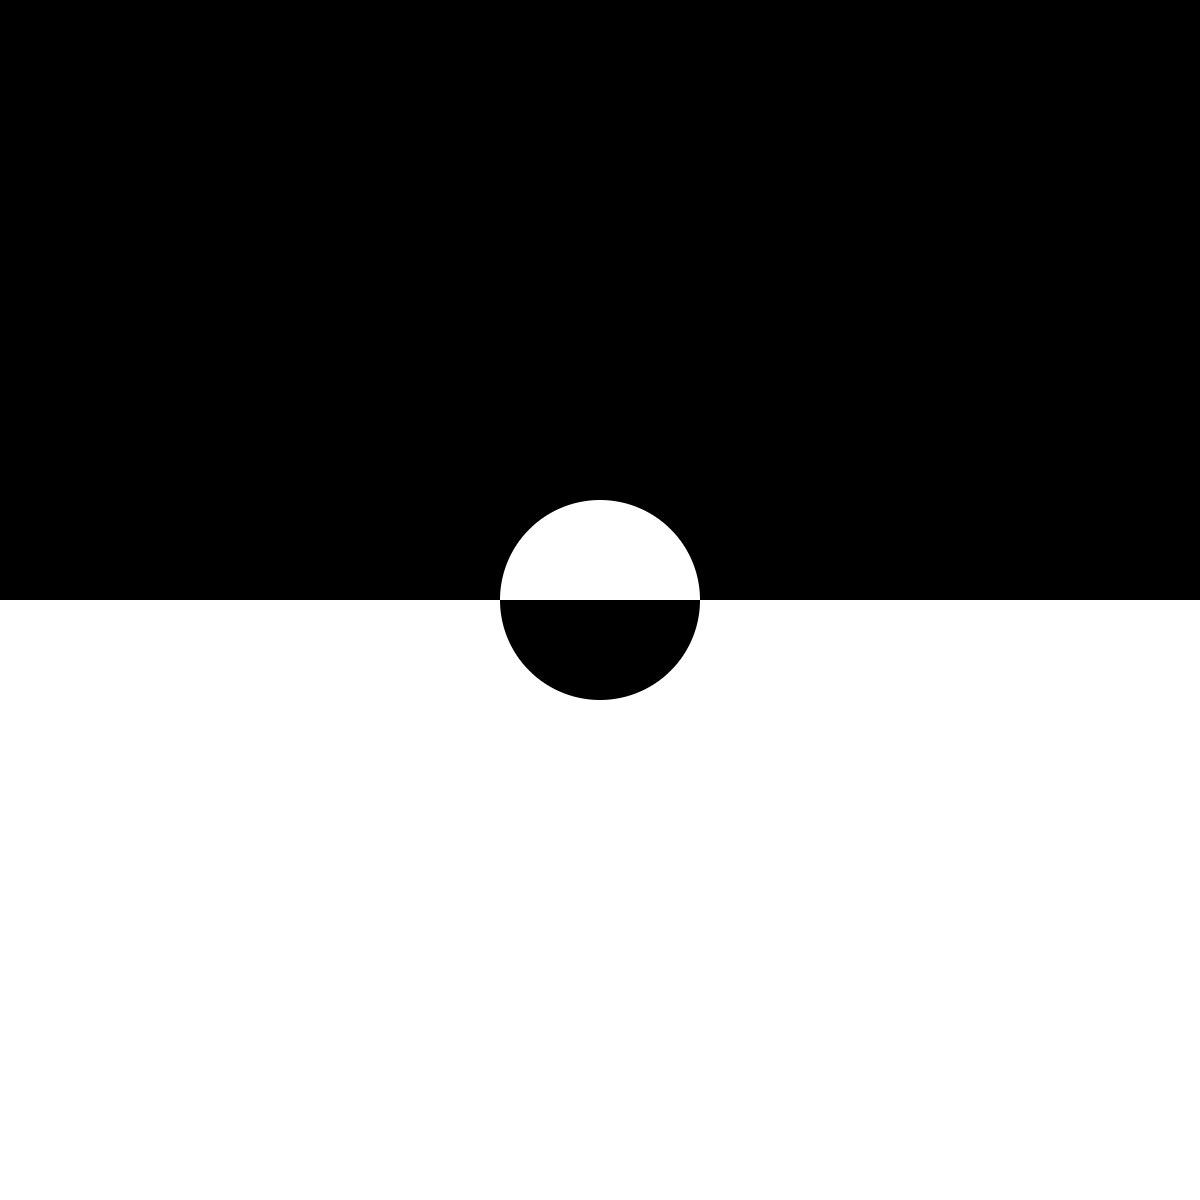
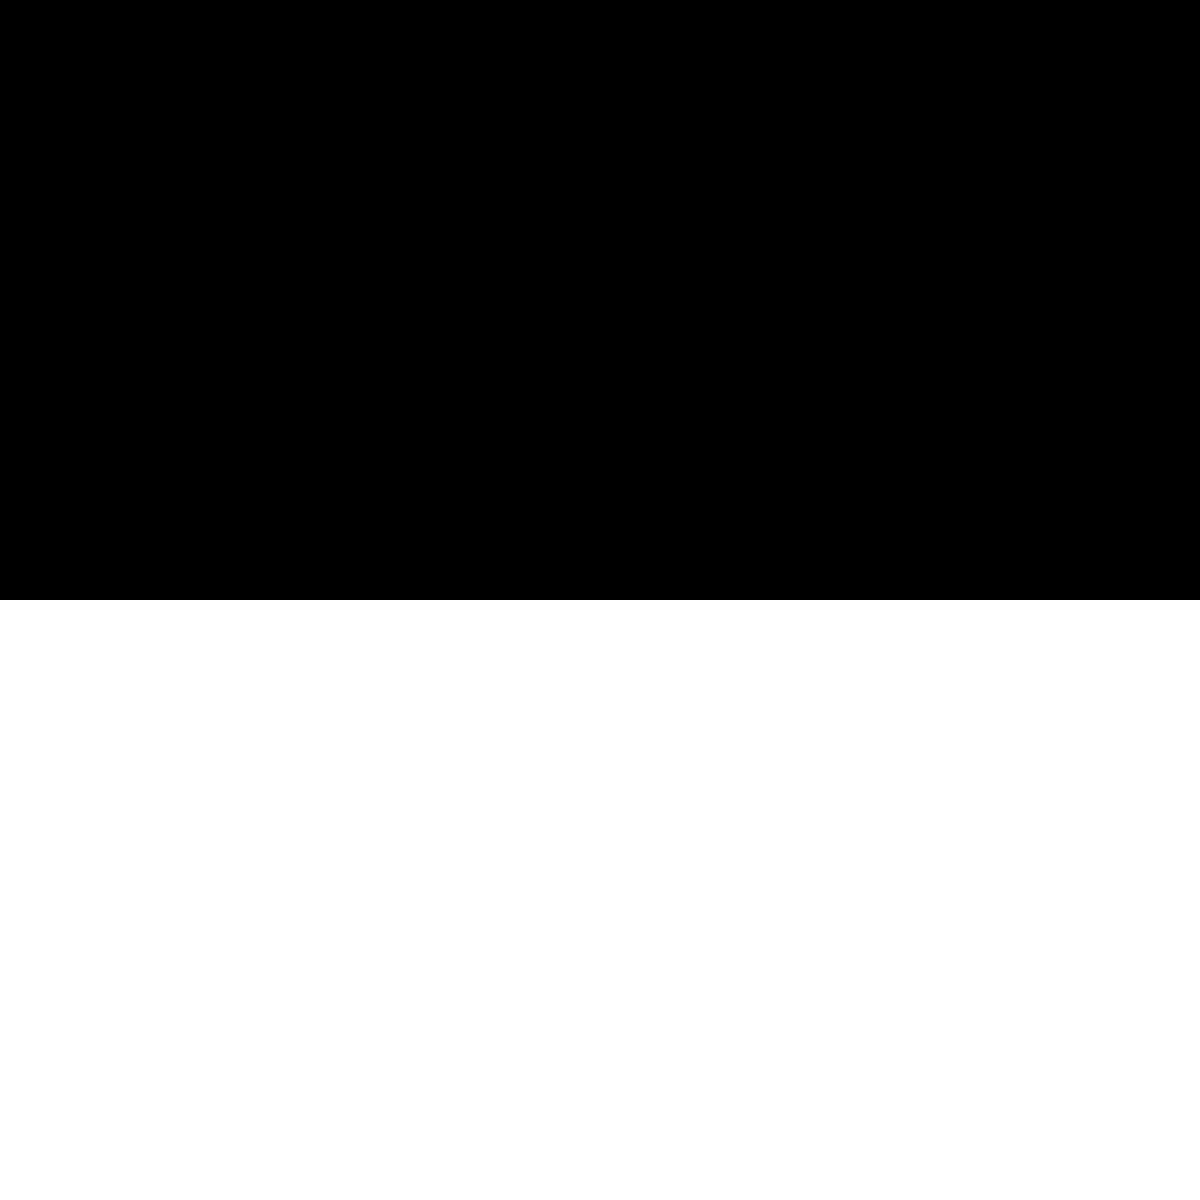
Adding ball.png, split the background and player's ball sprite. Further hit detect function needed.

Changed region(s): [[0.4008, 0.4008, 0.5858, 0.5858]]

diff --git a/script.js b/script.js
@@ -7,6 +7,7 @@ var game = new Phaser.Game(800, 800, Phaser.AUTO, '', { preload: preload, create
   var sGameStatus;
   var sGamePlayingStatus;
   var spriteBackground;
+  var spritePlayerBall;
 
   var isMouseInCircle = false;
 
@@ -15,7 +16,8 @@ var game = new Phaser.Game(800, 800, Phaser.AUTO, '', { preload: preload, create
   var fMouseAngle = 0;
 
   function preload () {
-    game.load.image('bg', 'assets/image/background.png');    
+    game.load.image('bg', 'assets/image/background.png');   
+    game.load.image('player', 'assets/image/ball.png');
   }
 
   function create () {
@@ -24,8 +26,11 @@ var game = new Phaser.Game(800, 800, Phaser.AUTO, '', { preload: preload, create
 
     spriteBackground = game.add.sprite(game.width/2, game.height/2, 'bg');
     spriteBackground.anchor.setTo(0.5, 0.5);
-
     spriteBackground.visible = false;
+
+    spritePlayerBall = game.add.sprite(game.width/2, game.height/2, 'player');
+    spritePlayerBall.anchor.setTo(0.5, 0.5);
+    spritePlayerBall.visible = false;
 
     sGameStatus = 'GAME_MENU'; 
     initialState();
@@ -55,6 +60,7 @@ var game = new Phaser.Game(800, 800, Phaser.AUTO, '', { preload: preload, create
 
     } else if (sGameStatus == 'GAME_PLAYING') {
       spriteBackground.visible = true;
+      spritePlayerBall.visible = true;
     } else if (sGameStatus == 'GAME_OVER') {
 
     } else {
@@ -74,6 +80,7 @@ var game = new Phaser.Game(800, 800, Phaser.AUTO, '', { preload: preload, create
       //console.log("MouseAngle is " + fMouseAngle);
       //console.log("MousePosition is " + game.input.mousePointer.x + " " + game.input.mousePointer.y);
       spriteBackground.angle = fMouseAngle;
+      spritePlayerBall.angle = fMouseAngle;
     }
   }
 
